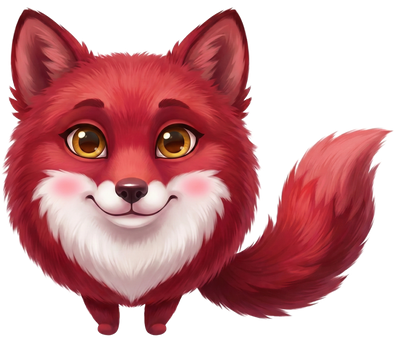
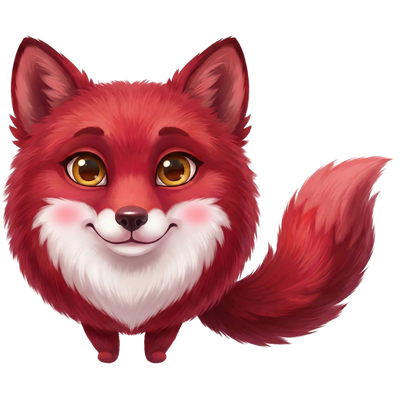
Prepare launcher for Pinokio community publication
- Track .gitignore (its own `.*` rule excluded it, so published clones
  shipped none -- users could commit their ENVIRONMENT file and leak
  CAMOFOX_* API keys). Added a `!.gitignore` negation.
- Replace enumerated agent-file ignores with `/*.md` + `!/README.md`:
  same protection, no vendor names in the published repo.
- Bump pinokio.js schema version 7.0 -> 8.0.0 (current per PINOKIO.md).
- Square icon.png 400x343 -> 400x400 with transparent padding.
- Add MIT LICENSE (launcher scripts only) and document that scope.
- Add pinokio_meta.json with author and upstream credit links.
- Drop named third-party clients from the MCP section of the README.

diff --git a/pinokio.js b/pinokio.js
@@ -1,6 +1,6 @@
 const path = require('path')
 module.exports = {
-  version: "7.0",
+  version: "8.0.0",
   title: "camofox-browser",
   description: "Stealth headless browser for AI agents - bypass Cloudflare, bot detection, and anti-scraping. Drop-in Puppeteer/Playwright replacement. https://github.com/jo-inc/camofox-browser",
   icon: "icon.png",

diff --git a/README.md b/README.md
@@ -223,8 +223,8 @@ The complete, always-current reference is served by the app itself:
 ## Using it as an MCP server
 
 The app also ships a Model Context Protocol server (stdio transport) that exposes the browser as
-tools to Claude Code, Cursor, opencode, and similar clients. It is a thin client over the REST API,
-so **the Pinokio `start.js` script must be running** for it to work.
+tools to any MCP-compatible client. It is a thin client over the REST API, so **the Pinokio
+`start.js` script must be running** for it to work.
 
 Add this to your MCP client config, substituting the real port:
 
@@ -287,3 +287,11 @@ Camoufox launch takes 6–7 seconds. Subsequent calls reuse it.
 - Browser engine: [Camoufox](https://camoufox.com/).
 - This folder contains only the Pinokio launcher scripts; the app itself is cloned into `app/` at
   install time and is not modified.
+
+## License
+
+The `LICENSE` file in this repository (MIT) covers **the Pinokio launcher scripts only** —
+`install.js`, `start.js`, `reset.js`, `update.js`, `pinokio.js`, and this documentation.
+
+camofox-browser itself is separately licensed by its authors and ships its own MIT `LICENSE`
+inside `app/` after installation. Camoufox and the browser binary carry their own upstream terms.
